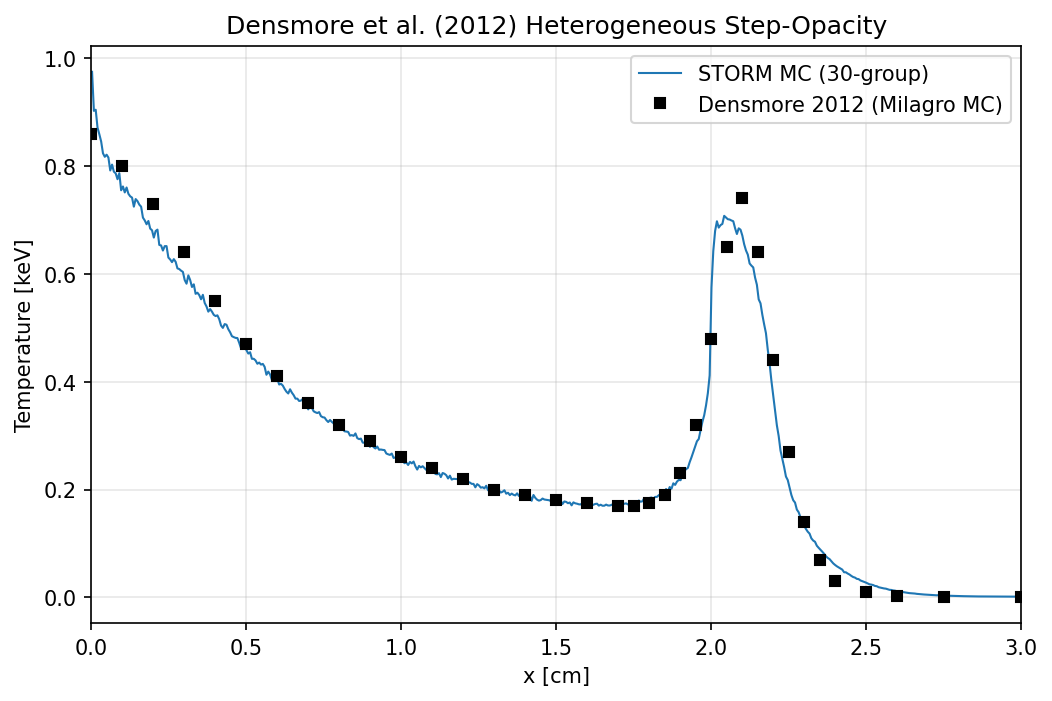
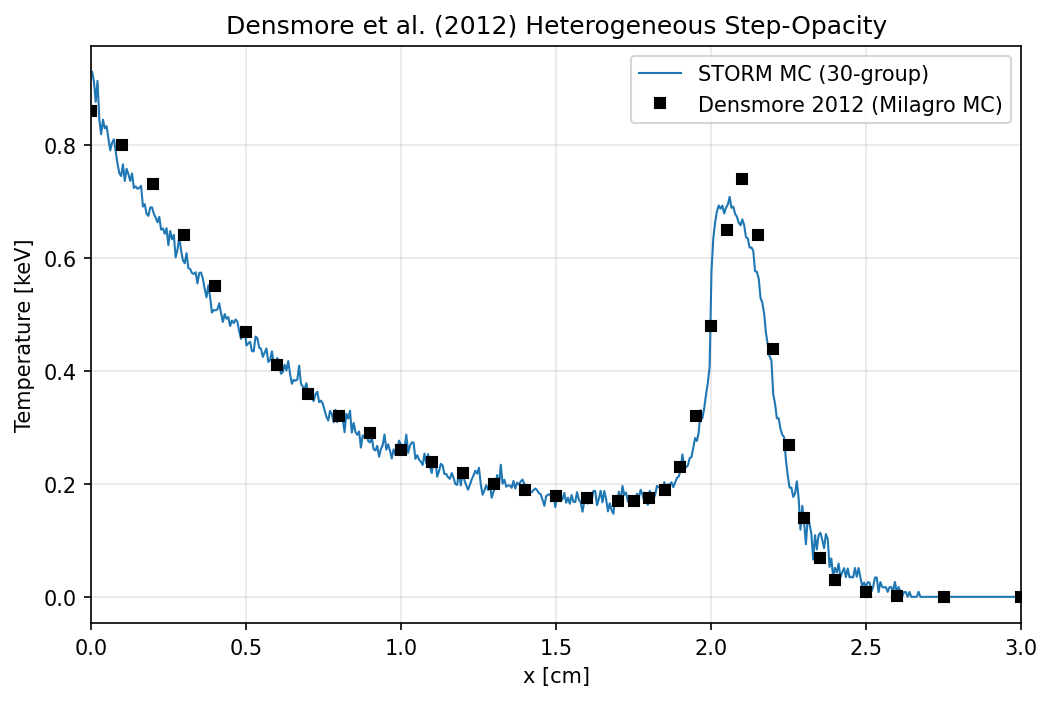
Tear down RDMA and Kokkos before MPI_Finalize in the Densmore example
Leaving the RMA factory and the Kokkos runtime alive past MPI_Finalize
let HIP and the OFI provider race during shutdown, so the example
dumped core after producing correct output. Plot refreshed from the
current run.

diff --git a/examples/densmore2012/main.cpp b/examples/densmore2012/main.cpp
@@ -371,7 +371,13 @@ int main(int argc, char *argv[])
 
 #ifdef STORM_WITH_MPI
     }
+    RMAFactory::Finalize(RDMA_Type::AUTO_RDMA);
+#ifdef STORM_WITH_GPU
+    STORM::gpu::KokkosRuntime::Finalize();
+#endif
     MPI_Finalize();
+#elif defined(STORM_WITH_GPU)
+    STORM::gpu::KokkosRuntime::Finalize();
 #endif
     return 0;
 }
